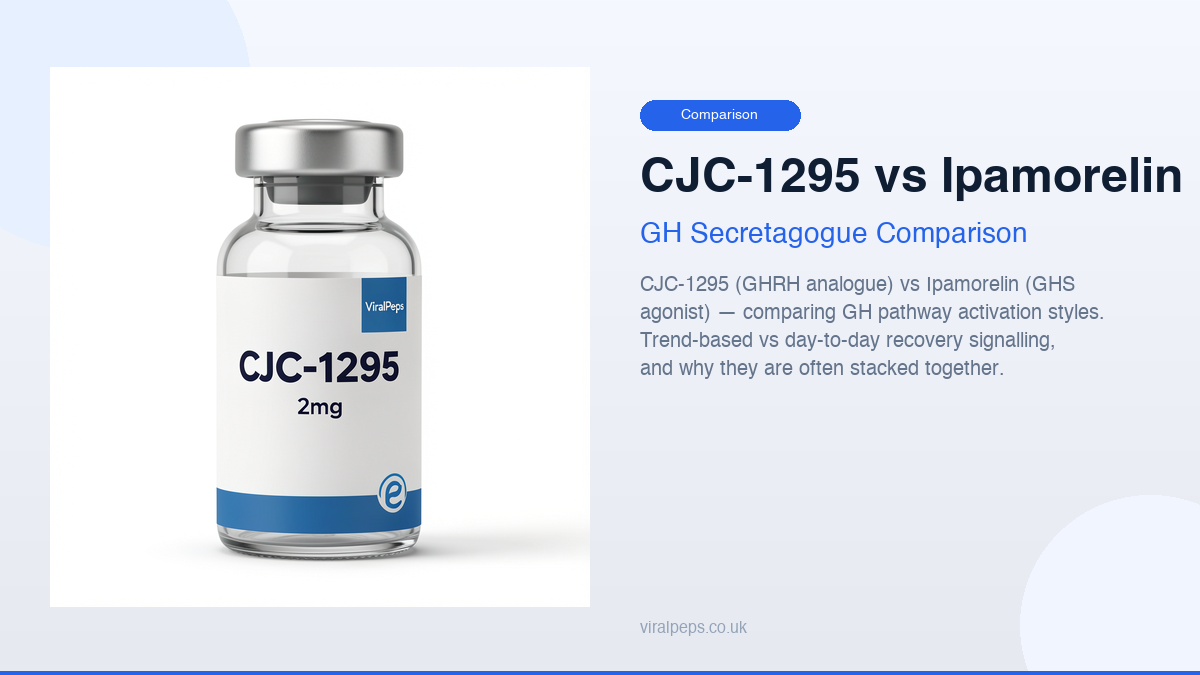
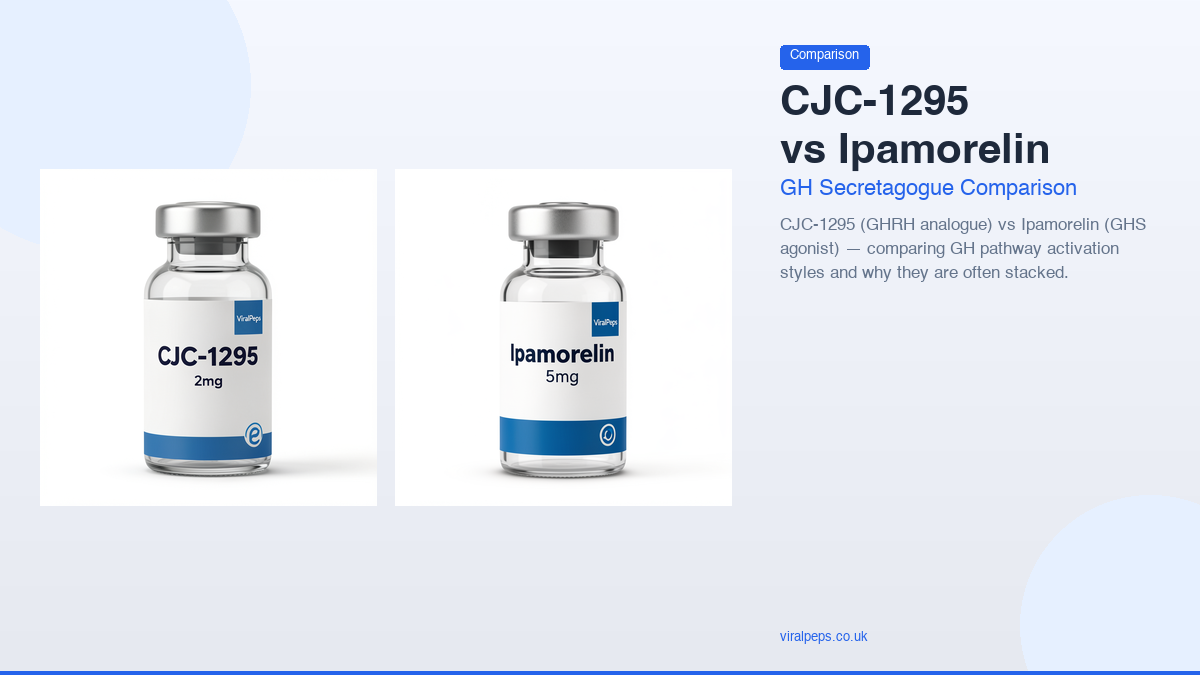
Fix 3 comparison images: TB-500 vs BPC-157, CJC-1295 vs Ipamorelin, Tesamorelin vs Sermorelin - dual vial side-by-side layout

diff --git a/scripts/batch_generate_guide_cards.py b/scripts/batch_generate_guide_cards.py
@@ -1,5 +1,5 @@
 """
-Batch generate ViralPeps guide card images (1200x675) — with dual-vial support.
+Batch generate ViralPeps guide card images (1200x675).
 Usage: python3 scripts/batch_generate_guide_cards.py
 """
 
@@ -9,11 +9,11 @@ import os
 font_dir = "/System/Library/Fonts"
 helvetica = os.path.join(font_dir, "Helvetica.ttc")
 if os.path.exists(helvetica):
-    title_font = ImageFont.truetype(helvetica, 48, index=1)
-    subtitle_font = ImageFont.truetype(helvetica, 26)
-    badge_font = ImageFont.truetype(helvetica, 14)
-    body_font = ImageFont.truetype(helvetica, 18)
-    small_font = ImageFont.truetype(helvetica, 14)
+    title_font = ImageFont.truetype(helvetica, 42, index=1)  
+    subtitle_font = ImageFont.truetype(helvetica, 22)
+    badge_font = ImageFont.truetype(helvetica, 13)
+    body_font = ImageFont.truetype(helvetica, 17)
+    small_font = ImageFont.truetype(helvetica, 13)
 else:
     title_font = subtitle_font = badge_font = body_font = small_font = ImageFont.load_default()
 
@@ -33,14 +33,10 @@ def draw_guide_card(
     badge_text: str = "Compound Profile",
     subtitle_text: str = "Research Summary",
 ) -> str:
-    """Draw a 1200x675 guide card with 1 or 2 vials on the left.
-    For 2 vials: each vial is 55% card height, placed side-by-side.
-    Text always gets ~50% of card width on the right.
-    """
     card = Image.new("RGB", (card_w, card_h), WHITE)
     draw = ImageDraw.Draw(card)
 
-    # Gradient background (light grey-blue)
+    # Gradient background
     for y in range(card_h):
         ratio = y / card_h
         r = int(245 - ratio * 15)
@@ -49,7 +45,7 @@ def draw_guide_card(
         for x in range(card_w):
             draw.point((x, y), fill=(r, g, b))
 
-    # Decorative circles (light blue)
+    # Decorative circles
     draw.ellipse([-80, -80, 250, 250], fill=CIRCLE_COLOR)
     draw.ellipse([card_w - 180, card_h - 180, card_w + 80, card_h + 80], fill=CIRCLE_COLOR)
 
@@ -69,23 +65,22 @@ def draw_guide_card(
         else:
             text_left = 50
     else:
-        # 2 vials: stacked vertically, each at 37% card height (same visual size as single)
-        vial_h = int(card_h * 0.37)
-        gap = 20
-        start_y = int((card_h - (vial_h * 2 + gap)) / 2)
-        vial_x = 50
+        # 2 vials side-by-side at 50% card height to leave text room
+        vial_h = int(card_h * 0.50)
+        gap = 18
+        start_x = 40
         
         for i, vial_path in enumerate(vial_paths[:2]):
             if os.path.exists(vial_path):
                 vial = Image.open(vial_path).convert("RGBA")
                 vw = int(vial_h * vial.width / vial.height)
                 vial = vial.resize((vw, vial_h), Image.LANCZOS)
-                vy = start_y + i * (vial_h + gap)
-                card.paste(vial, (vial_x, vy), vial)
+                card.paste(vial, (start_x, int((card_h - vial_h) / 2)), vial)
+                start_x += vw + gap
         
-        text_left = vial_x + int(vial_h * 1.0) + 45
+        text_left = start_x + 30
 
-    # Ensure text has enough room
+    # Ensure text has room
     if text_left > card_w - 200:
         text_left = card_w - 350
 
@@ -94,42 +89,36 @@ def draw_guide_card(
     badge_w = int(text_w + 20)
     badge_h = 24
     draw.rounded_rectangle(
-        [text_left, 50, text_left + badge_w, 50 + badge_h],
-        radius=4,
-        fill=ACCENT,
+        [text_left, 45, text_left + badge_w, 45 + badge_h],
+        radius=4, fill=ACCENT,
     )
-    draw.text((text_left + 10, 53), badge_text, fill=WHITE, font=badge_font)
+    draw.text((text_left + 10, 48), badge_text, fill=WHITE, font=badge_font)
 
-    # Title (wrap if too long)
-    title_y = 90
-    max_text_w = card_w - text_left - 30
-    compound_line = compound
-    # If title is too long, check if there's a " vs " split
+    # Title — wrap long compounds
+    title_y = 82
+    max_text_w = card_w - text_left - 25
     if " vs " in compound and draw.textlength(compound, font=title_font) > max_text_w:
         parts = compound.split(" vs ", 1)
-        compound_line = f"{parts[0]}"
-        compound_line2 = f"vs {parts[1]}"
-        draw.text((text_left, title_y), compound_line, fill=DARK, font=title_font)
-        draw.text((text_left, title_y + 54), compound_line2, fill=DARK, font=title_font)
-        subtitle_y = title_y + 108
+        draw.text((text_left, title_y), parts[0], fill=DARK, font=title_font)
+        draw.text((text_left, title_y + 48), "vs " + parts[1], fill=DARK, font=title_font)
+        subtitle_y = title_y + 96
     else:
-        draw.text((text_left, title_y), compound_line, fill=DARK, font=title_font)
-        subtitle_y = title_y + 58
+        draw.text((text_left, title_y), compound, fill=DARK, font=title_font)
+        subtitle_y = title_y + 50
 
     # Subtitle
     draw.text((text_left, subtitle_y), subtitle_text, fill=ACCENT, font=subtitle_font)
 
-    # Description lines
-    desc_y = subtitle_y + 44
+    # Description
+    desc_y = subtitle_y + 38
     for line in description_lines:
         draw.text((text_left, desc_y), line, fill=BODY_COLOR, font=body_font)
-        desc_y += 26
+        desc_y += 24
 
     # Footer
-    footer_y = card_h - 50
-    draw.text((text_left, footer_y), "viralpeps.co.uk", fill=ACCENT, font=small_font)
+    draw.text((text_left, card_h - 45), "viralpeps.co.uk", fill=ACCENT, font=small_font)
 
-    # Accent stripe at bottom
+    # Accent stripe
     draw.rectangle([0, card_h - 4, card_w, card_h], fill=ACCENT)
 
     os.makedirs(os.path.dirname(output_path) or ".", exist_ok=True)
@@ -137,9 +126,43 @@ def draw_guide_card(
     return os.path.abspath(output_path)
 
 
-# ============ CONFIG: Add/remove cards here ============
 CARDS = [
-    # === COMPARISONS (2 vials stacked vertically, same size as single vial cards) ===
+    {
+        "compound": "TB-500 vs BPC-157",
+        "vial_paths": ["public/images/compounds/tb-500-vial.png", "public/images/compounds/bpc-157-vial.png"],
+        "output_path": "public/images/guides/tb500-vs-bpc157.png",
+        "description_lines": [
+            "TB-500 (thymosin beta-4) vs BPC-157 — how actin",
+            "regulation and angiogenesis compare in tissue",
+            "repair research.",
+        ],
+        "badge_text": "Comparison",
+        "subtitle_text": "Tissue Repair Peptide Comparison",
+    },
+    {
+        "compound": "CJC-1295 vs Ipamorelin",
+        "vial_paths": ["public/images/compounds/cjc-1295-vial.png", "public/images/compounds/ipamorelin-vial.png"],
+        "output_path": "public/images/guides/cjc1295-vs-ipamorelin.png",
+        "description_lines": [
+            "CJC-1295 (GHRH analogue) vs Ipamorelin (GHS",
+            "agonist) — comparing GH pathway activation",
+            "styles and why they are often stacked.",
+        ],
+        "badge_text": "Comparison",
+        "subtitle_text": "GH Secretagogue Comparison",
+    },
+    {
+        "compound": "Tesamorelin vs Sermorelin",
+        "vial_paths": ["public/images/compounds/tesamorelin-vial.png", "public/images/compounds/sermorelin-vial.png"],
+        "output_path": "public/images/guides/tesamorelin-vs-sermorelin.png",
+        "description_lines": [
+            "Tesamorelin vs Sermorelin — comparing GHRH",
+            "analogues for GH release, IGF-1 elevation,",
+            "and metabolic research applications.",
+        ],
+        "badge_text": "Comparison",
+        "subtitle_text": "GHRH Analogue Comparison",
+    },
     {
         "compound": "GHK-Cu vs Retinol",
         "vial_paths": ["public/images/compounds/ghk-cu-vial.png", "public/images/compounds/ghk-cu-vial.png"],
@@ -148,20 +171,128 @@ CARDS = [
             "Comparing GHK-Cu with Retinol for skin health,",
             "collagen synthesis, and anti-aging applications.",
         ],
-        "badge_text": "Head-to-Head Comparison",
-        "subtitle_text": "Skin Research",
+        "badge_text": "Comparison",
+        "subtitle_text": "Skin Research Comparison",
     },
     {
         "compound": "CJC-1295 vs Tesamorelin",
         "vial_paths": ["public/images/compounds/cjc-1295-vial.png", "public/images/compounds/tesamorelin-vial.png"],
         "output_path": "public/images/guides/cjc1295-vs-tesamorelin.png",
         "description_lines": [
-            "Comparing CJC-1295 with Tesamorelin for growth",
-            "hormone release, IGF-1 elevation, and body",
-            "composition research.",
+            "CJC-1295 (GHRH analogue) vs Tesamorelin —",
+            "comparing GH release, IGF-1 elevation, and",
+            "body composition research applications.",
         ],
-        "badge_text": "Head-to-Head Comparison",
-        "subtitle_text": "Growth Hormone Research",
+        "badge_text": "Comparison",
+        "subtitle_text": "Growth Hormone Comparison",
+    },
+    {
+        "compound": "GHK-Cu vs BPC-157",
+        "vial_paths": ["public/images/compounds/ghk-cu-vial.png", "public/images/compounds/bpc-157-vial.png"],
+        "output_path": "public/images/guides/ghkcu-vs-bpc157.png",
+        "description_lines": [
+            "Comparing GHK-Cu with BPC-157 for tissue repair,",
+            "wound healing, anti-aging, and regenerative",
+            "medicine research applications.",
+        ],
+        "badge_text": "Comparison",
+        "subtitle_text": "Regenerative Research Comparison",
+    },
+    {
+        "compound": "Semax vs Selank",
+        "vial_paths": ["public/images/compounds/semax-vial.png", "public/images/compounds/selank-vial.png"],
+        "output_path": "public/images/guides/semax-vs-selank.png",
+        "description_lines": [
+            "Comparing Semax with Selank for cognitive",
+            "enhancement, anxiety modulation, and",
+            "neurological research applications.",
+        ],
+        "badge_text": "Comparison",
+        "subtitle_text": "Nootropic Comparison",
+    },
+    {
+        "compound": "Selank vs Semax (ADHD)",
+        "vial_paths": ["public/images/compounds/selank-vial.png", "public/images/compounds/semax-vial.png"],
+        "output_path": "public/images/guides/selank-vs-semax-adhd.png",
+        "description_lines": [
+            "Comparing Selank with Semax for ADHD-related",
+            "cognitive symptoms, focus enhancement, and",
+            "neurological research applications.",
+        ],
+        "badge_text": "Comparison",
+        "subtitle_text": "ADHD Research Comparison",
+    },
+    {
+        "compound": "Retatrutide vs Tirzepatide",
+        "vial_paths": ["public/images/compounds/retatrutide-vial.png", "public/images/compounds/tirzepatide-vial.png"],
+        "output_path": "public/images/guides/retatrutide-vs-tirzepatide.png",
+        "description_lines": [
+            "Triple vs dual agonist showdown — mechanism,",
+            "clinical data, liver fat reduction, and where",
+            "each stands in metabolic research.",
+        ],
+        "badge_text": "Comparison",
+        "subtitle_text": "Retatrutide vs Tirzepatide",
+    },
+    {
+        "compound": "PT-141 vs Melanotan II",
+        "vial_paths": ["public/images/compounds/pt-141-vial.png", "public/images/compounds/melanotan-ii-vial.png"],
+        "output_path": "public/images/guides/pt141-vs-melanotan2.png",
+        "description_lines": [
+            "Comparing PT-141 (Bremelanotide) with Melanotan",
+            "II for melanocortin receptor research, sexual",
+            "health, and pigmentation studies.",
+        ],
+        "badge_text": "Comparison",
+        "subtitle_text": "Melanocortin Research Comparison",
+    },
+    {
+        "compound": "AOD-9604 vs Tesamorelin",
+        "vial_paths": ["public/images/compounds/aod-9604-vial.png", "public/images/compounds/tesamorelin-vial.png"],
+        "output_path": "public/images/guides/aod9604-vs-tesamorelin.png",
+        "description_lines": [
+            "Comparing AOD-9604 with Tesamorelin for",
+            "lipolysis, fat metabolism, GH release, and",
+            "body composition research.",
+        ],
+        "badge_text": "Comparison",
+        "subtitle_text": "Metabolic Research Comparison",
+    },
+    {
+        "compound": "Oxytocin vs PT-141",
+        "vial_paths": ["public/images/compounds/oxytocin-vial.png", "public/images/compounds/pt-141-vial.png"],
+        "output_path": "public/images/guides/oxytocin-vs-pt141.png",
+        "description_lines": [
+            "Comparing Oxytocin with PT-141 (Bremelanotide)",
+            "for social bonding, sexual health research, and",
+            "melanocortin pathway modulation.",
+        ],
+        "badge_text": "Comparison",
+        "subtitle_text": "Neuroendocrine Comparison",
+    },
+    {
+        "compound": "Semaglutide vs Tirzepatide",
+        "vial_paths": ["public/images/compounds/semaglutide-vial.png", "public/images/compounds/tirzepatide-vial.png"],
+        "output_path": "public/images/guides/semaglutide-vs-tirzepatide.png",
+        "description_lines": [
+            "Comparing Semaglutide with Tirzepatide for",
+            "GLP-1 agonism, weight reduction, and",
+            "metabolic health research.",
+        ],
+        "badge_text": "Comparison",
+        "subtitle_text": "GLP-1 Research Comparison",
+    },
+    {
+        "compound": "Retatrutide vs Semaglutide",
+        "vial_paths": ["public/images/compounds/retatrutide-vial.png", "public/images/compounds/semaglutide-vial.png"],
+        "output_path": "public/images/guides/retatrutide-vs-semaglutide.png",
+        "description_lines": [
+            "Comparing Retatrutide (triple agonist) with",
+            "Semaglutide (GLP-1 agonist) for metabolic",
+            "research and weight management outcomes.",
+        ],
+        "badge_text": "Comparison",
+        "subtitle_text": "Metabolic Research Comparison",
     },
 ]
 
